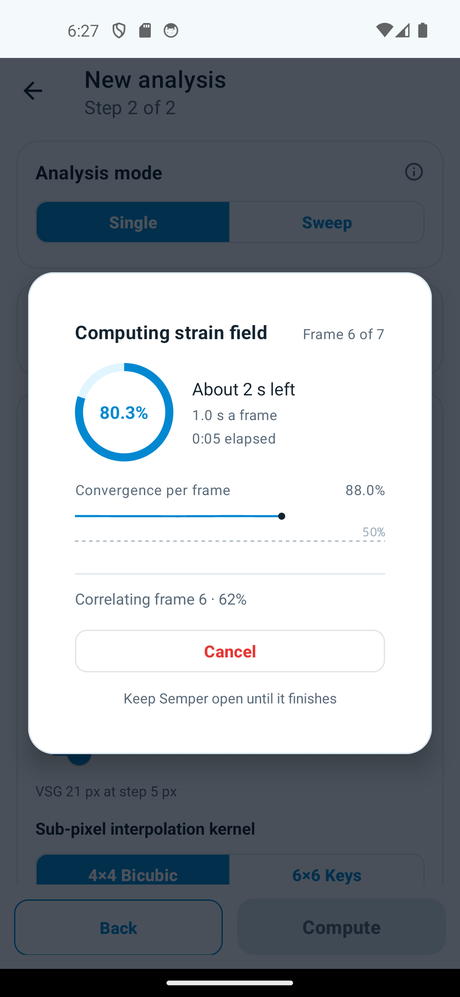
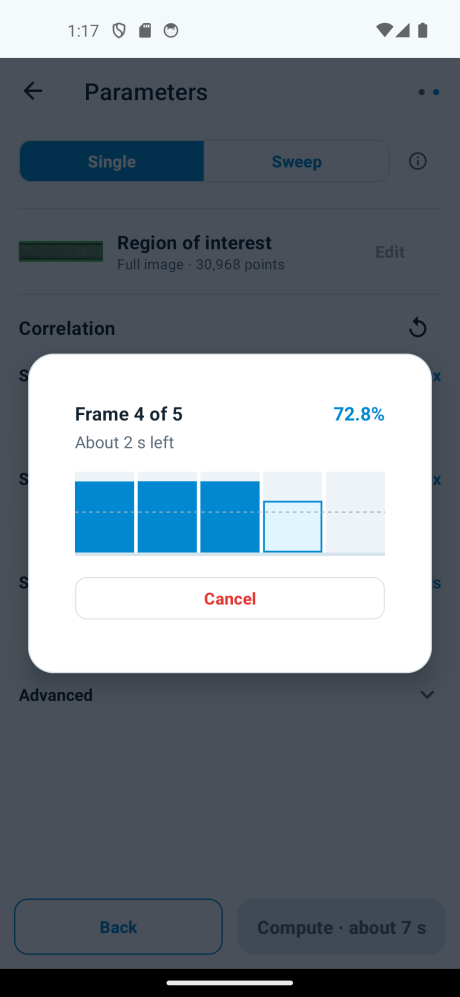
docs: recapture six screens after the minimal pass; Current state
home, home-selection, step2-parameters, running, step3-sweep and
result-viewer on the Pixel_5 AVD (light), 460x997 like the folder.
The manual's Home shot is no longer the empty state; the viewer's
field button replaces the pills in its text. CONTEXT gains the
minimal pass (#402-#419).

diff --git a/docs/images/CAPTURE_CHECKLIST.md b/docs/images/CAPTURE_CHECKLIST.md
@@ -10,31 +10,30 @@ phone-class emulator or device at the project's debug build; light theme
 unless noted. Keep the 460×1022 crop so the manual's `width="300"` doesn't
 distort.
 
-> **Theme mismatch, open:** the 2026-09-09/10 shots (`home.png`,
-> `step2-parameters.png`, `speckle-warning.png`, `speckle-span-warning.png`)
-> came off a dark-themed
-> emulator, while the 2026-08-19 folder is light. They are scaled to 460×1022
-> so they lay out correctly, but the manual now alternates light and dark
-> mid-flow. Recapture all three in light theme on the next pass.
+> **Theme mismatch, open:** the 2026-09-09/10 shots `speckle-warning.png` and
+> `speckle-span-warning.png` came off a dark-themed emulator, while the rest of
+> the folder is light. They are scaled to 460×1022 so they lay out correctly,
+> but the manual alternates light and dark mid-flow. Recapture both in light
+> theme on the next pass.
 
 ## Done
 
 | File | Used in §. | State captured |
 |---|---|---|
-| `home.png` | §1 | *(2026-09-09, dark)* Empty state with the new plain **+** button, replacing the shot that still showed the camera-and-video FAB glyph. Still missing: session rows at all, and with them the cloud state icons (**Backed up** / **Upload pending** / **Only in cloud**) and result-heatmap thumbnails — see below |
+| `home.png` | §1 | *(2026-10-10, light, Pixel_5 AVD)* Outlined cards under **Today** / **Yesterday** headers: single runs ("5 frames · 87.9%", one amber 84.3%), a video analysis ("Video · 29 frames, 0:00–0:02 · 96.0%"), a sweep ("9 of 9 solved"), result thumbnails. Local-only, so every cloud icon reads *Not backed up* — see below for the other states |
 | `new-analysis-source.png` | §4 | Images tab open, gallery grid populated, a video tile showing its badge |
 | `step1-frames.png` | §4 | Reference + 3 deformed frames loaded, order badges visible |
 | `frame-order-menu.png` | §4 | The sort menu open over the loaded strip |
-| `step2-parameters.png` | §4 | *(2026-10-09, light, Pixel_5 emulator)* Flat list: Single/Sweep at the top, the ROI row with its thumbnail, the Correlation section with the "Speckle D px" chip, the shaded band behind the subset slider and its caption, "N points in the region" under the step, the Interpolation dropdown, and **Compute**. **Stale** since the parameters trim: recapture with the count on the ROI row ("Full image · N points"), no band caption, "N px VSG" beside the strain window, and **Advanced** closed |
+| `step2-parameters.png` | §4 | *(2026-10-10, light, Pixel_5 AVD)* Single/Sweep at the top, the ROI row reading "Full image · 30,968 points", the Correlation section with the "Speckle 4.8 px" chip and the shaded band behind the subset slider, "21 px VSG" beside the strain window, **Advanced** closed, and **Compute · about 7 s** |
 | `speckle-warning.png` | §4 (new) | *(2026-09-09, dark)* Step 1 with the over-resolved speckle chip — a 12.8 px pattern against the 9 px ceiling |
 | `speckle-span-warning.png` | §4 (new) | *(2026-09-10, dark)* Step 2 with the subset-span chip under the slider — a 7.1 px pattern against a 15 px subset, asking for 23 |
-| `running.png` | §4 | *(2026-10-08, light, Pixel_5 AVD; **owed a recapture**: it still shows the line graph the convergence bins replaced on 2026-10-09)* Mid-run: header "Frame N of M" with the percentage, time left, the convergence bins over several frames with the frame in progress pale and outlined |
+| `running.png` | §4 | *(2026-10-10, light, Pixel_5 AVD)* Mid-run: "Frame 4 of 5" with 72.8%, "About 2 s left", three finished convergence bins and the fourth in progress, pale and outlined, over the 50% line; **Cancel** |
 | `roi-editor.png` | §6 | Draw + Crop mode, one rectangle drawn, HUD showing `W × H at (x, y)` |
-| `step3-sweep.png` | §7 | Sweep settings: subset and strain window ranges with the VSG caption, step ÷ N with overlap, **Line cut axis** over the small preview, and "Run N analyses · about T". **Stale** since the sweep trim: recapture with **Subset** / **Strain window** and "a–b px VSG" on its title row, the overlap under a closed **Advanced**, the X / Y toggle, and "Run N · T" |
+| `step3-sweep.png` | §7 | *(2026-10-10, light, Pixel_5 AVD)* Sweep settings: **Subset** 15–35 and **Strain window** 3–11 with "11–121 px VSG" on its title row, step "subset ÷ 3", **Advanced** closed, the **X / Y** line-cut toggle over the strip preview, and **Run 9 · 7 s** |
 | `result-lattice.png` | §7 | Summary line above the lattice, hollow (skipped) nodes, **All / Node** pill visible |
-| `result-viewer.png` | §8 | Exx strain field with full chrome: back · title · ⓘ · Home · share along the top, field pills + scale + scrub along the bottom |
+| `result-viewer.png` | §8 | *(2026-10-10, light, Pixel_5 AVD)* Exx on the last frame of a steel strip: back · "steel_27" · ⓘ · Home · share along the top, the field chip, the colour bar with its limits, a probed point ("Exx: 1.90895 mε"), and the frame jump field "5 / 5" between the arrows |
 | `settings-used.png` | §8 | ⓘ details sheet on a sweep result, line-cut section showing. Still missing: a run that stopped early, to show the "Stopped early / Frames solved" rows |
-| `home-selection.png` | §10 | Two rows selected, bar reads "2 selected" |
+| `home-selection.png` | §10 | *(2026-10-10, light, Pixel_5 AVD)* Two cards selected under different day headers, bar reads "2 selected" with **Select all** and delete |
 | `settings.png` | §10 | Settings scrolled to **Analyses data management**, expanded. Still missing: a row with all three actions (Download / Restore / Delete) and the transfer banner — see below |
 | `media-picker-files-saf.png` | §4 (new) | The **Files** tab handing off to the system file browser |
 | `media-picker-permission-empty.png` | §4 (new) | The Images tab's empty state with **Allow access**, before media permission is granted |

diff --git a/docs/OPERATING_MANUAL.md b/docs/OPERATING_MANUAL.md
@@ -24,12 +24,10 @@ strain fields — and has not used this app. -->
 ---
 
 > **`delete-dialog.png` below still shows the pre-2026-08 UI** — recapturing it
-> needs a signed-in account with a cloud-backed analysis. `home.png`,
-> `step2-parameters.png` and `speckle-warning.png` were recaptured on 2026-09-09
-> after the in-app camera was removed, so they show the current **+** button and
-> the speckle readout — but `home.png` is now an empty-state shot, so the list
-> rows and their cloud state icons are not visible on it; those and the Settings
-> **Download** row still need a real-account pass. `settings.png` shows the
+> needs a signed-in account with a cloud-backed analysis. `home.png` shows the
+> list as of 2026-10-10, but only local analyses, so every cloud icon reads *Not
+> backed up*; the other cloud states and the Settings **Download** row still need
+> a real-account pass. `settings.png` shows the
 > current UI but only its local-only state. Every other screenshot on this page
 > matches the current UI. The diagrams
 > (`pipeline.svg`, `wizard.svg`, `subset-step.svg`, `vsg.svg`, `lattice.svg`) are
@@ -93,7 +91,7 @@ Send crash reports**.
 Home lists your analyses. Tap one to open it. Long-press for select, rename,
 delete. Pull down to sync. **+** goes straight to the picker — pick existing
 photos or a video. There is no in-app camera; the app measures images you
-already have. (The shot above is the empty state, before any analysis exists.)
+already have.
 
 The list is grouped by day under small headers: *Today*, *Yesterday*, then a
 date such as *Oct 7* (with the year for an earlier year), in your phone's
@@ -559,7 +557,7 @@ Look for the VSG where the curves stop separating.
 appear, a small pill in the middle reads **Opening steel_00 · 40 frames** (the
 reference's name and the frame count) until that frame draws.
 
-Field pills switch field. Pinch to zoom (~10×), drag to pan; both survive a
+The field button (top left) switches field. Pinch to zoom (~10×), drag to pan; both survive a
 field change. Double-tap zooms or resets. A horizontal fling while fit-to-screen
 steps frames. Chrome auto-hides after a short idle; pan or scrub brings it back,
 and so does a tap in the middle of the screen or a downward swipe. The figure
@@ -595,7 +593,7 @@ framed on the same coloured region the live view rest-fits to (your ROI, or the
 accepted points), scaled to fill — not a letterboxed full photo. While it builds
 you get a progress readout and a **Cancel**. **Next** enters the
 frames; **Prev** on frame 1 comes back to it. Switching field rebuilds it in that
-field. Field pills stay available while it plays. A parameter sweep opens from
+field. The field button stays available while it plays. A parameter sweep opens from
 the lattice onto one combination instead; there is no overview slot.
 
 (Playback needs Android 9 or newer. Below that you get the first frame

diff --git a/CONTEXT.md b/CONTEXT.md
@@ -161,11 +161,16 @@ Keep `-O3 -ffast-math` / OpenMP / LTO on release.
   backend by host and port and follows no redirects (TD-160, TD-161); an account deletion
   the process died in is finished at the next start (TD-165, `AccountDeletionMarker`);
   a wizard run's outcome waits for the screen (TD-168, `PendingOutcome`).
-- **UI pass (on `main` 2026-10-09, #385, #387–#391, #396; not in a release yet).** The run
-  overlay's convergence line graph and time left, the sweep lattice filling live, export and
-  transfer progress with bytes and Retry notifications, signals for silent waits, denser
-  Home rows, and the flat parameters page with the sweep split into setup and settings.
-  Owed: a device check of the transfer notifications (it touches the shared backend).
+- **UI pass (on `main` 2026-10-09, #385, #387–#391, #396; not in a release yet).** The sweep
+  lattice filling live, export and transfer progress with bytes and Retry notifications,
+  signals for silent waits, and the sweep split into setup and settings. Owed: a device
+  check of the transfer notifications (it touches the shared backend).
+- **Minimal pass (on `main` 2026-10-10, #402–#419; not in a release yet).** Fewer words:
+  Home cards under day headers, the run overlay's frames as convergence bins with only the
+  time left, the point count on the ROI row and Overlap / Interpolation under **Advanced**,
+  one-line share rows, shorter Settings, viewer titles without the field ("Summary"), a
+  video analysis named after its clip with clip times on its frames, "steel_24 sweep".
+  A sweep has its own record (#403); ZIP export progress moves within a frame (#402).
 - **Dependabot** opens monthly PRs for major versions only (pip, Gradle, Actions; #337);
   minor and patch fixes arrive as Dependabot security updates, which are on.
 - **Owed.** The public release of `v1.2-beta.3` (website / Play); a licensed-account smoke
